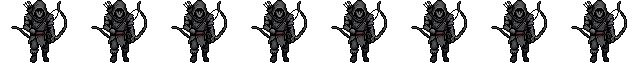
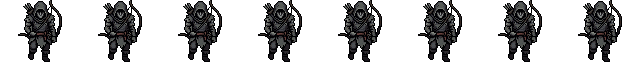
v2.0 — Ok artık sırtta görünmüyor, yan görünümde yay iki elle
Ok güneye atılırken sırtta beliriyordu: çizim OK_YUKSEK kadar yukarı kaydığı
için 9 birimlik ileri pay yetmiyor, ok ayak hizasından 17 birim yukarıda yani
gövdenin üstünde doğuyordu. Pay 20'ye çıkarıldı; hedef daha yakınsa kısalıyor,
yoksa ok hedefin arkasında doğup ıskalardı.

Yan görünümde tek elle ok atıyordu. Saldırı için ayrı tarif: yay DİKEY, sol kol
ileri uzanmış kabzada, sağ el kirişte. Aynı "dikey yay" tarifi yürüyüşte ters
teptiği için (yay tamamen kayboldu, bbox 21..35) yürüyüş genel tarifte kaldı.

Yaysız kare eşiği 0.45'ten 0.30'a indi: saldırıda yay dikey tutulduğu için
bbox'ı genişletmiyor ve iyi kareler de atılıyordu. Piksel sayısı ölçütü
denendi ve daha kötü ayırdı (yaylı kare 1532, yaysız 1460 — %5 fark,
sıralamayı bile tutturmuyor).

Changed region(s): [[0.0, 0.0, 1.0, 0.9688]]

diff --git a/lib/game/engine.ts b/lib/game/engine.ts
@@ -161,7 +161,13 @@ if(!walkable(this.world,s.x,s.y)){[s.x,s.y]=this.world.spawn;}this.camera={x:s.x
    if(isBow){const arrowCount=s.inventory.arrow||0;if(arrowCount<=0){this.vurusPoz=0;this.notify('Okun kalmadı! Sarnıç kapağının yanındaki sandıktan, Alf’ten veya diğer sandıklardan ok bulabilirsin.');return;}removeItem(s,'arrow');this.audio.play('swing');const damage=stats(s).attack+(this.tonic>0?8:0);let targets=this.mobs.filter(m=>Math.hypot(m.x-s.x,m.y-s.y)<160&&lineOfSight(this.world,s.x,s.y,m.x,m.y));targets.sort((a,b)=>Math.hypot(a.x-s.x,a.y-s.y)-Math.hypot(b.x-s.x,b.y-s.y));let vx=0,vy=0;if(targets[0]){const d=Math.hypot(targets[0].x-s.x,targets[0].y-s.y)||1;vx=(targets[0].x-s.x)/d*170;vy=(targets[0].y-s.y)/d*170;this.face(targets[0].x-s.x,targets[0].y-s.y);}else{const dirX=this.direction==='S'?(this.flip?-1:1):0;const dirY=this.direction==='U'?-1:this.direction==='D'?1:0;vx=dirX*170;vy=dirY*170;}// Ok govdenin ONUNDEN cikar: merkezden dogunca sirttan firlamis gibi
    // gorunuyordu. Atis yonunde 9 birim ilerden baslatiliyor.
    {const hz=Math.hypot(vx,vy)||1;
-    this.shots.push({x:s.x+vx/hz*9,y:s.y-4+vy/hz*9,vx,vy,life:1.3,damage,isHero:true});};this.save();this.emit();return;}
+    // Ileri pay: 9 birimken ok govdenin UZERINDE ciziliyordu. Cizim OK_YUKSEK
+    // kadar yukari kaydigi icin asagi atista ok, ayak hizasindan 17 birim
+    // yukarida yani tam sirtta beliriyordu; temizlenmesi icin pay OK_YUKSEK'i
+    // gecmeli. Hedef daha yakinsa pay kisalir, yoksa ok hedefin arkasinda
+    // dogup isabet etmezdi.
+    const ileri=targets[0]?Math.max(9,Math.min(20,Math.hypot(targets[0].x-s.x,targets[0].y-s.y)*.6)):20;
+    this.shots.push({x:s.x+vx/hz*ileri,y:s.y-4+vy/hz*ileri,vx,vy,life:1.3,damage,isHero:true});};this.save();this.emit();return;}
    this.slash=.2;this.audio.play('swing');
    const decors=this.world.entities.filter(e=>((e.type==='decor'&&!e.asset?.includes('Table'))||(e.type==='chest'&&s.opened.includes(e.id)))&&Math.hypot(e.x-s.x,e.y-s.y)<38);
    for(const d of decors){

diff --git a/lib/game/data.ts b/lib/game/data.ts
@@ -1,6 +1,6 @@
 /** Oyun surumu. Her yayina cikan degisiklikte 0.1 artar: 0.1, 0.2 ... 0.9,
  *  sonra 1.0, 1.1 diye devam eder. Ekranin sol altinda gorunur. */
-export const SURUM = '1.9';
+export const SURUM = '2.0';
 /** Gelisim asamasi. Oyun oynanabilir ama icerik ve sistemler (item seti, dil
  *  secenegi, masaustu arayuzu) hala eksik - yani alfa. Beta'ya gecisi bu sabit
  *  tasir; surum numarasiyla ayri tutuldu ki 1.x sayimi bozulmasin. */

diff --git a/scripts/v3_anim.py b/scripts/v3_anim.py
@@ -57,6 +57,17 @@ YAY_VUR_ARKA = ('seen from behind, raises a curved wooden hunting bow and draws 
                 'stick out clearly to the left and right of the silhouette, then '
                 'releases the arrow forward away from the camera')
 
+# Yandan bakista tek elle ok atiyordu (fiziksel olarak imkansiz) ve yay yatay
+# durdugu icin arbalete benziyordu. Yan gorunum icin duruş acikca yazildi:
+# yay DIKEY, sol kol ileri uzanmis, sag el kirişte.
+YAY_VUR_YAN = ('seen from the side, holds a tall curved wooden bow UPRIGHT and VERTICAL '
+               'in the outstretched left hand, and pulls the bowstring straight back to '
+               'the cheek with the right hand, so BOTH hands are clearly on the weapon - '
+               'one on the bow grip, one on the string - then releases the arrow '
+               'forward; the bow is never held horizontally and never fired one-handed')
+# NOT: ayni "dikey yay" tarifi YURUYUSTE ters tepti - yay tamamen kayboldu
+# (dogu karelerinde bbox 21..35, yani govde kadar). Yuruyus genel tarifte
+# (gogus hizasinda capraz) kaliyor; dikey duruş yalnizca saldiri icin.
 RAUF_VUR = ('swings the sword down and across in a diagonal cut in front of the body, '
             'then pulls it back to a ready guard; the sword is a solid steel blade and '
             'stays gripped in the hand in every frame')
@@ -75,7 +86,8 @@ OZEL = {('kilic', 'Attack', 'east'): KILIC_VUR_YAN,
         ('rauf', 'Attack', 'east'): KILIC_VUR_YAN,
         ('kilic', 'Attack', 'north'): KILIC_VUR_ARKA,
         ('rauf', 'Attack', 'north'): KILIC_VUR_ARKA,
-        ('yay', 'Attack', 'north'): YAY_VUR_ARKA}
+        ('yay', 'Attack', 'north'): YAY_VUR_ARKA,
+        ('yay', 'Attack', 'east'): YAY_VUR_YAN}
 
 SETLER = {
     'kilic': ('pixellab/gezgin/id_kilic.txt', [('Walk', 8, KILIC_YUR), ('Attack', 6, KILIC_VUR)]),

diff --git a/scripts/v3_kur.py b/scripts/v3_kur.py
@@ -58,7 +58,11 @@ ATIS_BASA = {('yay', 'Attack')}
 # Esik bbox GENISLIGINDEN: yaysiz kare yalnizca govde kadar dar, yayli kare
 # kollari disina tasiyor. Olculen guney yuruyusu 33..59, dogu 21..46.
 ONDEN_AT = {('yay', 'Walk'), ('yay', 'Attack')}
-AT_ESIK = 0.45
+# Esik 0.45'ti; saldirida yay DIKEY tutuldugu icin bbox'i genisletmiyor ve
+# iyi kareler de atiliyordu. Piksel sayisi denendi ve DAHA KOTU ayirdi
+# (yatay yayli kare 1532, yaysiz kare 1460 - %5 fark, siralamayi bile
+# tutturmuyor). Genislik dogru olcut, pay dusuruldu.
+AT_ESIK = 0.30
 
 
 def yaysiz_onu_at(kareler):
